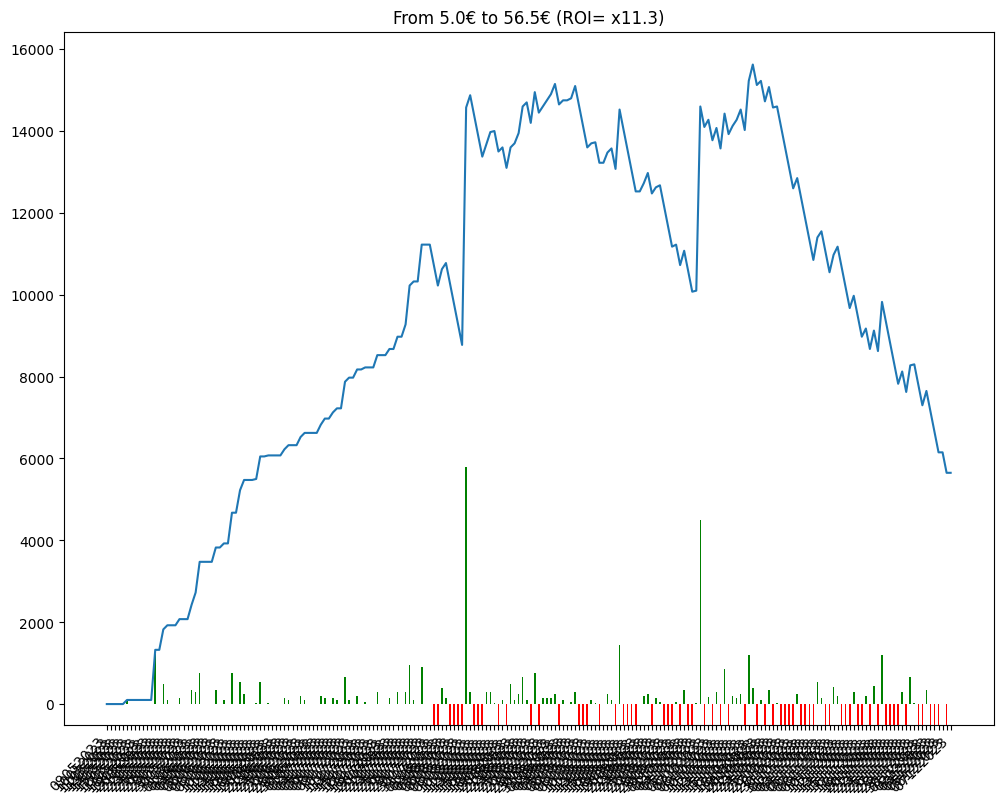
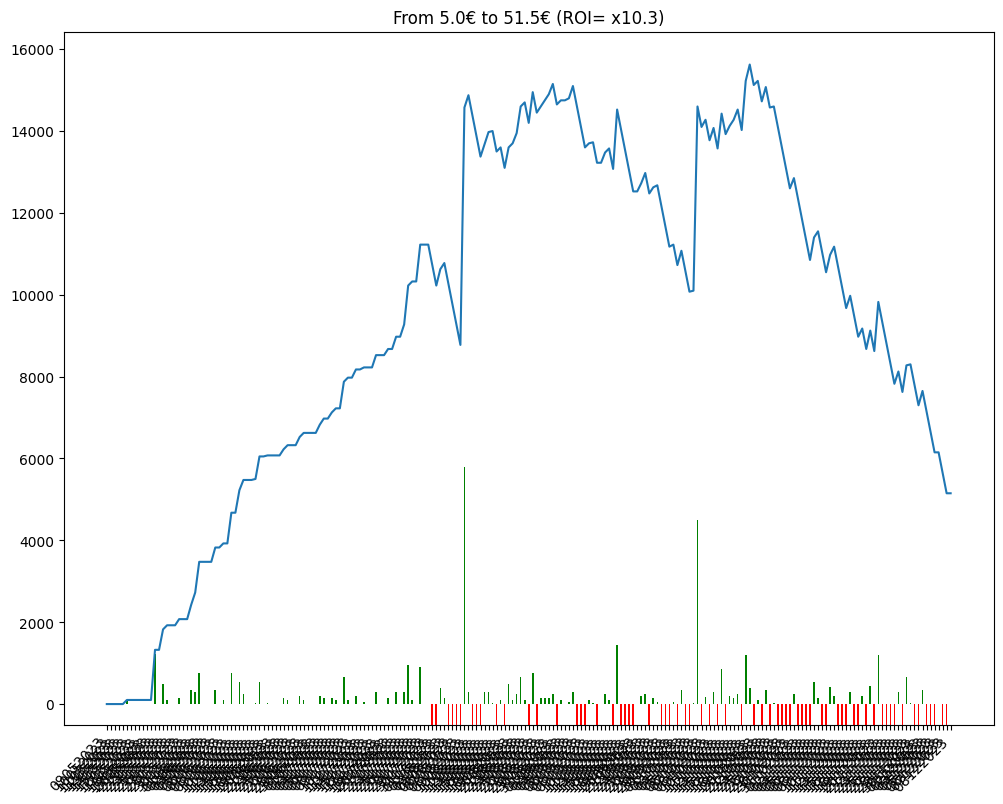
comment from python script

diff --git a/bethistory.html b/bethistory.html
@@ -86,7 +86,8 @@
             En observant la courbe 🤔, on peut avoir une idée visuelle de l'évolution des gains et ainsi évaluer le model utilisé 🧑🏫.
         </p>
         
-        <img src = "/candle.png" alt="candle chart"/><table><tr><td>Chevaux joués</td><td>Gains</td><td>URL Circuits</td></tr><tr><td>5 - CANNJAYAR</td><td>0</td><td><a href=https://www.pmu.fr/turf/07122023/r3/c3 target="_blank">https://www.pmu.fr/turf/07122023/r3/c3</a></td></tr>
+        <img src = "/candle.png" alt="candle chart"/><table><tr><td>Chevaux joués</td><td>Gains</td><td>URL Circuits</td></tr><tr><td>12 - BARONCINA</td><td>0</td><td><a href=https://www.pmu.fr/turf/08122023/r5/c3 target="_blank">https://www.pmu.fr/turf/08122023/r5/c3</a></td></tr>
+<tr><td>5 - CANNJAYAR</td><td>-500</td><td><a href=https://www.pmu.fr/turf/07122023/r3/c3 target="_blank">https://www.pmu.fr/turf/07122023/r3/c3</a></td></tr>
 <tr><td>7 - LOYAL AMBITION</td><td>-500</td><td><a href=https://www.pmu.fr/turf/06122023/r2/c2 target="_blank">https://www.pmu.fr/turf/06122023/r2/c2</a></td></tr>
 <tr><td>10 - POLARKLY</td><td>-500</td><td><a href=https://www.pmu.fr/turf/04122023/r2/c1 target="_blank">https://www.pmu.fr/turf/04122023/r2/c1</a></td></tr>
 <tr><td>9 - SOLAR GOGO</td><td>-500</td><td><a href=https://www.pmu.fr/turf/03122023/r2/c7 target="_blank">https://www.pmu.fr/turf/03122023/r2/c7</a></td></tr>
